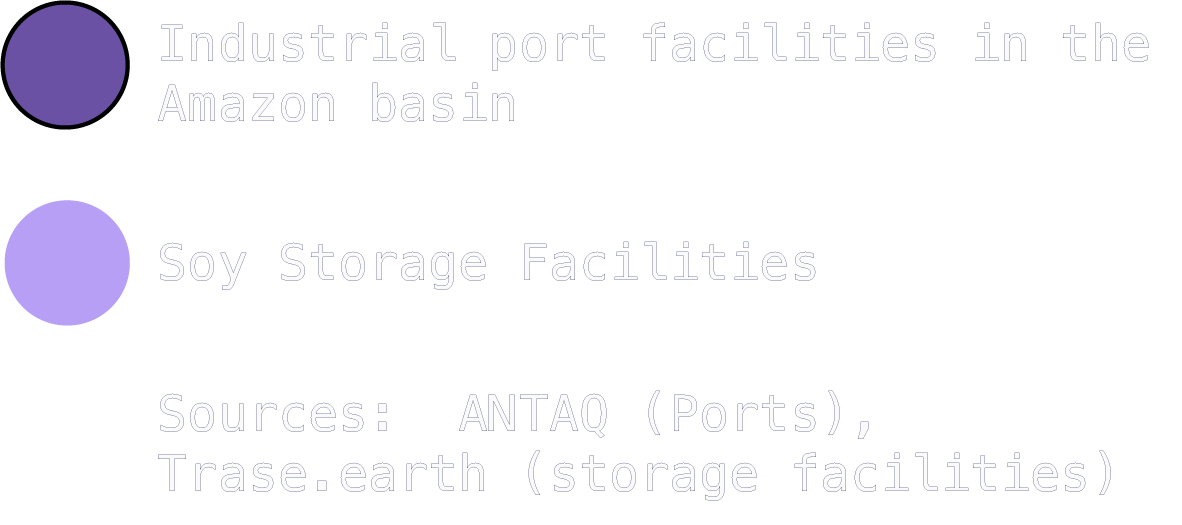
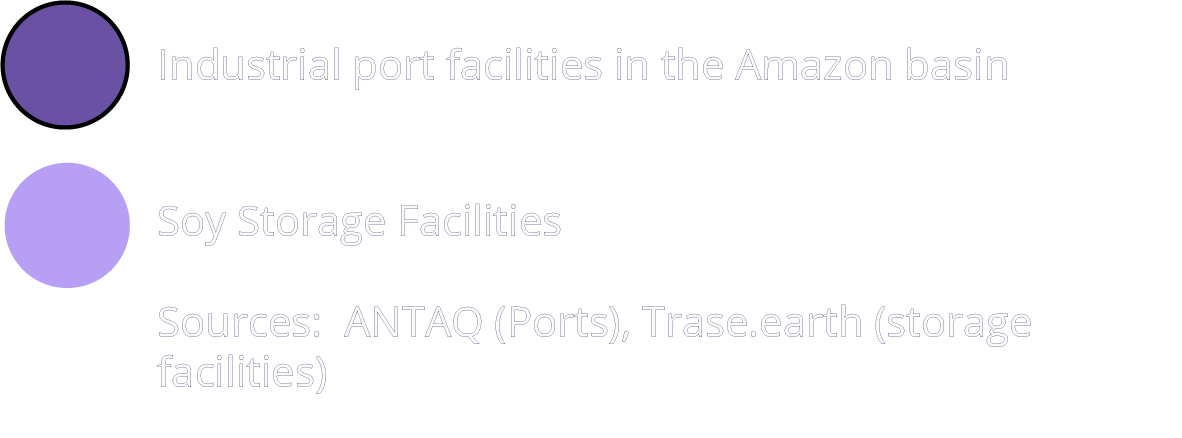
Refine text and add legends

diff --git a/src/config.js b/src/config.js
@@ -9,14 +9,14 @@ export default {
   title: '',
   subtitle: '',
   byline: '',
-  footer: 'Source: source citations, etc.',
+  footer: 'Cartography by Willie Shubert for Mongabay.',
   chapters: [
     {
       id: 'amazon-region',
       title: 'Turning the Amazon river into an industrial waterway',
       image: 'chapter1_legend.png',
       description:
-        'Brazil has been putting forward elaborate plans to exploit large portions of its 35,000-kilometers (22,000 miles) of waterway since the 1970s. But mostly privately funded projects went ahead, with just a third of the country’s navigable waterway potential now fulfilled.',
+        'Brazil’s government has had major plans to exploit large portions of its 35,000-kilometers (22,000-miles) of waterways since the 1970s. But it was mostly privately funded projects that went ahead, with just a third of the nation’s navigable waterway potential now fulfilled.',
       location: {
         center: [-57.15869, -3.85456],
         zoom: 4.70,
@@ -45,7 +45,7 @@ export default {
       title: 'Following the road north',
       image: 'chapter2_legend.png',
       description:
-        'The northerward progression of road building and deforestation over the past decades has opened transit corridors to the Amazon River that run adjecent to Indigenous territories. Northern routes offer agribuiness firms an opportunity to bypass a long, rugged road journey, and the queues of trucks clogging Brazil’s southern commercial ports at Paranaguá and Santos',
+        'The northward expansion of Amazon roadbuilding over recent decades opened truck/barge transit corridors to the Amazon River and Atlantic Ocean, but which run adjacent to Indigenous territories and cause deforestation. Northern routes do let agribusiness bypass a long, rugged road journey, and queues of trucks clogging Brazil’s southern ports at Paranaguá and Santos',
       location: {
         center: [-57.15869, -3.85456],
         zoom: 4.70,
@@ -60,7 +60,7 @@ export default {
         {
           layer: 'Tree-cover-loss-2001-2019',
           opacity: 1
-        },
+        }
       ],
       onChapterExit: [
         // {
@@ -72,9 +72,9 @@ export default {
     {
       id: 'cerrado',
       title: 'An agricultural heartland to the south',
-      image: '',
+      image: 'chapter3_legend.png',
       description:
-      'In July 2006, major trading companies working in Brazil made a voluntary agreement that they would not buy soy from any area that was deforested after 2006. The program has been hugely successful, but critics say this transformation was only possible because the Cerrado biome, a vast savanna lying to the east and south of the Amazon basin, could take in the growth that would otherwise have spread through the rainforest..',
+      'In July 2006, major commodities companies working in Brazil voluntarily agreed to not buy soy from any Amazon area deforested after that year. This Amazon Soy Moratorium was hugely successful, but critics say saving the rainforest was only possible because soy production was shifted to the vast Cerrado savanna biome, lying to the east and south of the Amazon basin.',
       location: {
         center: [-52.74787, -14.10557],
         zoom: 4.63,
@@ -90,16 +90,16 @@ export default {
       onChapterExit: [
         {
           layer: 'brazilbiomes-8y9982',
-          opacity: 0.5
+          opacity: 0.2
         }
       ]
     },
     {
       id: 'cerrado-2',
       title: 'A forgotten biodiversity hotspot',
-      image: '',
+      image: 'chapter4_legend.png',
       description:
-      'Half of the Cerrado biome, one of the earth’s top biodiversity hotspots, has already been lost to cattle ranches and soy, corn and cotton plantations, with the savanna losing its native vegetation faster than any part of Brazil including the Amazon.',
+      'Half of the Cerrado biome, one of the earth’s top biodiversity hotspots, has already been lost to cattle ranches and soy, corn and cotton plantations. Today, the savanna is losing its native vegetation faster than any part of Brazil, including the Amazon.',
       location: {
         center: [-52.74787, -14.10557],
         zoom: 4.63,
@@ -136,14 +136,19 @@ export default {
       title: 'Porto Velho',
       image: '',
       description:
-        'Typically trucks full of soybeans leave the state of Mato Grosso driving roughly 1,000 kilometers (600 miles) through the BR-364 road towards the public port at the city of Porto Velho, in Rondônia. There, Hermasa, an Amaggi subsidiary, built silos at a leased portion of the public port, to move soy from trucks to barges, at the Madeira river. More recently, Hermasa built its own private port in the area too. From Porto Velho, barges navigate another 1,000 kilometers to get to a private Amaggi port at the City of Itacoatiara, from where big ships reach the Atlantic coast and sail to other countries.',
+      'Soy-loaded trucks travel from Mato Grosso state 1,000 kilometers (600 miles) along the BR-364 highway to the city of Porto Velho public port in Rondônia state. There, Hermasa, an Amaggi subsidiary, built silos in a leased portion of the public port, and moved soy from trucks to Madeira River barges. More recently, Hermasa built its own private port in the city. From Porto Velho, barges sail 1,000 kilometers downstream to a private Amaggi port at the city of Itacoatiara. From there, big ships go downriver to the Atlantic coast and on to other nations.',
       location: {
-        center: [-63.65107, -8.55536],
-        zoom: 7.32,
-        pitch: 52.5,
-        bearing: 45.52
+        center: [-63.86148, -8.81658],
+        zoom: 7.73,
+        pitch: 60.00,
+        bearing: 51.99
       },
-      onChapterEnter: [],
+      onChapterEnter: [
+        {
+          layer: 'Tree-cover-loss-2001-2019',
+          opacity: 0.3
+        },
+      ],
       onChapterExit: []
     },
     {
@@ -151,12 +156,12 @@ export default {
       title: 'Itaituba',
       image: '',
       description:
-        'There are currently at least ten operational ports in Itaituba, Since the 2013 law, at least ten industrial ports — mostly connected to agribusiness — have been built around the city of Itaituba, a transportation hub connecting the BR-163 highway with the Tapajós River. The most important ones for agribusiness are the ones operated by Cargill, Hidrovias do Brasil, Cianport and Unitapajós a joint-venture between Bunge and Amaggi. Together, the four companies have invested over US $ 150 million in these facilities.',
+      'Since the passage of a 2013 law that allowed the creation of private river ports, at least ten industrial ports, mostly connected to agribusiness commodities giants, have been built around the city of Itaituba in Pará state, in a transportation hub linking the BR-163 highway with the Tapajós River. The most important ports for agribusiness are owned and operated by Cargill, Hidrovias do Brasil, Cianport and Unitapajós (a joint-venture between Bunge and Amaggi). Together, the companies have invested over US$150 million in these private facilities.',
       location: {
-        center: [-55.9728, -4.34176],
-        zoom: 8.94,
-        pitch: 35.5,
-        bearing: 33.6
+        center: [-56.39726, -3.78364],
+        zoom: 7.51,
+        pitch: 53.00,
+        bearing: 47.18
       },
       onChapterEnter: [],
       onChapterExit: []
@@ -166,12 +171,12 @@ export default {
       title: 'Santarém',
       image: '',
       description:
-        'Near the port complex of Santarém, the Maicá lake has been eyed by five companies as the next target for port development in the region, mostly connected to agribusiness. Though some projects have stalled after intense questioning by local activists throughout the last seven years, at least one has already been built, a fuel port. The company responsible for it, Atem’s, lacks the necessary permits, so, in March, prosecutors filed criminal charges against its representatives.',
+      'The Maicá Lake, near the port complex of Santarém, in Pará state, has been eyed by five mostly agribusiness companies as the next target for port development in the region. Some port projects have stalled after intense resistance by activists over the last seven years, but one has been built, a fuel port. However, the company responsible, Atem’s, lacked the required permits, so, in March, prosecutors filed criminal charges against the firm’s representatives.',
       location: {
-        center: [-54.66638, -2.40053],
-        zoom: 11.24,
-        pitch: 59.0,
-        bearing: 116.0
+        center: [-54.65835, -2.37194],
+        zoom: 10.20,
+        pitch: 60.00,
+        bearing: 101.56
       },
       onChapterEnter: [],
       onChapterExit: []
@@ -181,7 +186,7 @@ export default {
       title: 'Barcarena',
       image: '',
       description:
-        'The Barcarena port complex started with the public port of Vila do Conde, inaugurated in 1985. It was created to answer to demands from mining companies located in the region, such as Vale. The region started receiving more demand from agribusiness in the 2000’s, as trading companies established a route through the Amazon.',
+      'Pará state’s Barcarena port complex began with the public port of Vila do Conde, established in 1985. It was built to answer demands from the region’s mining companies, including Vale, Brazil’s largest mining firm. In the 2000’s, Barcarena’s river port complex received increased demand from agribusiness, as commodities firms established a route through the Amazon.',
       location: {
         center: [-48.67775, -1.52281],
         zoom: 11.17,

diff --git a/src/components/chapter/chapter.js b/src/components/chapter/chapter.js
@@ -6,8 +6,8 @@ function Chapter({ id, theme, title, image, description, currentChapterID }) {
     <div id={id} className={classList}>
       <div className={theme}>
         {title && <h3 className="title">{title}</h3>}
-        {image && <img src={image} alt={title}></img>}
         {description && <p>{description}</p>}
+        {image && <img src={image} alt={title}></img>}
       </div>
     </div>
   );
